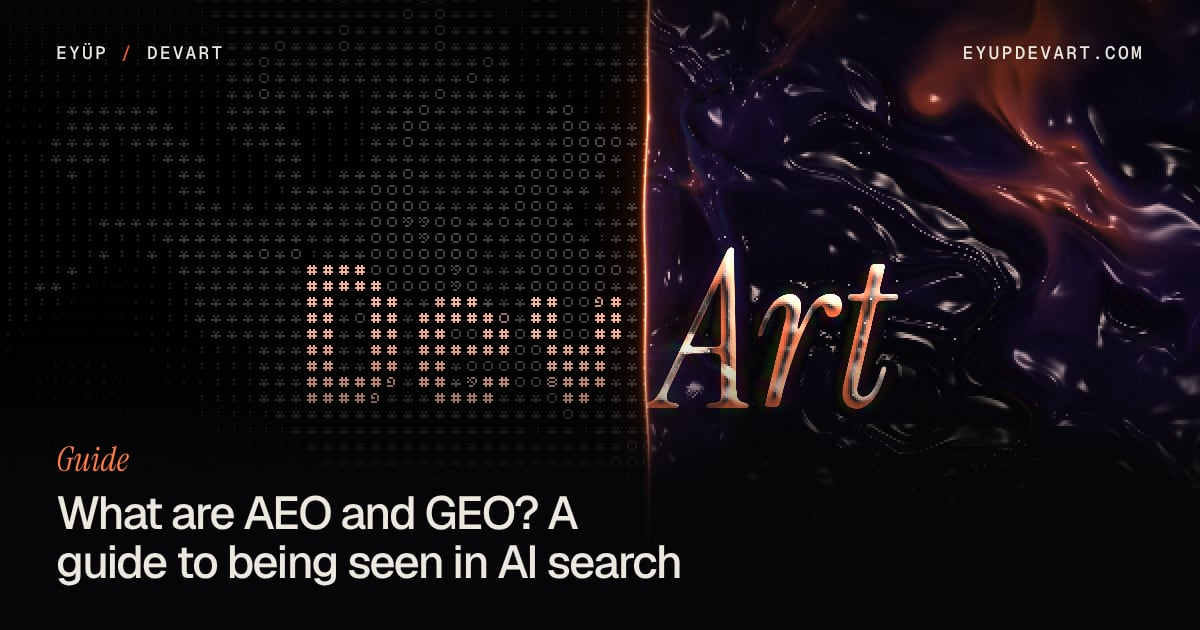
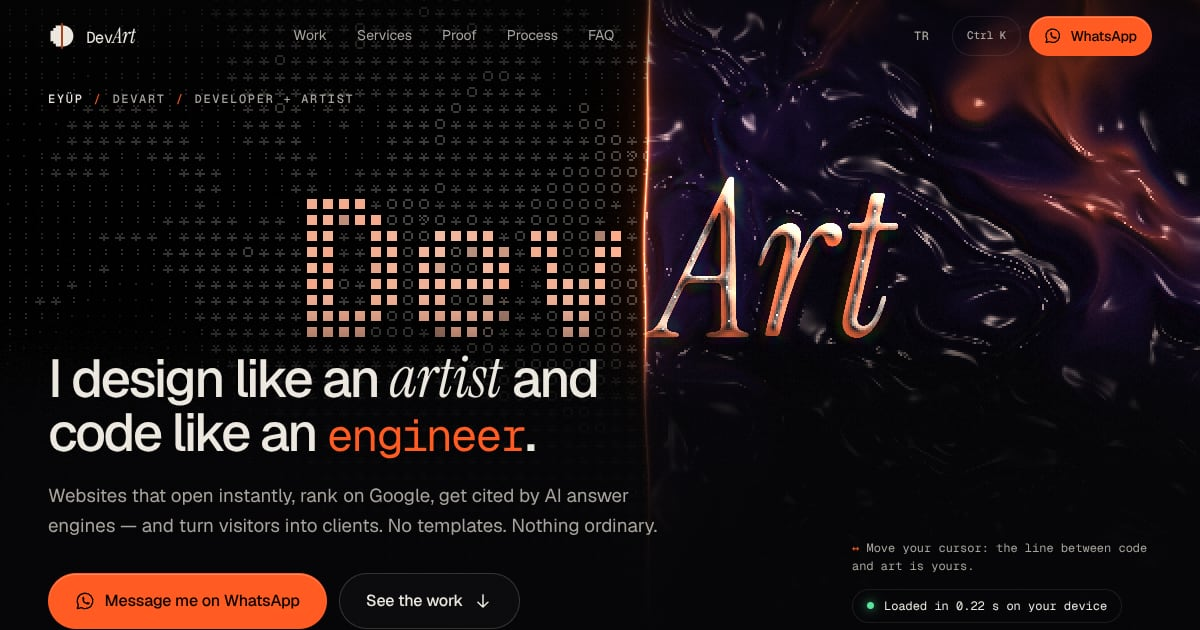
Seam: LED-block letters on the code side; refresh social cards
Cells inside the "Dev" letterforms now render as solid 5x5 blocks instead of
'#' glyphs, so the word reads as a crisp LED matrix even at phone sizes
where only ~9 cells span a letter. Thinner mask dilation keeps the shapes
faithful. Reduced-motion redraws are coalesced to one per frame. OG cards
re-rendered from the updated hero.

Claude-Session: https://claude.ai/code/session_01QQQySKRqq9o5pyzFvKpeWa

diff --git a/src/js/seam.js b/src/js/seam.js
@@ -130,6 +130,7 @@ void main() {
   if (lvl > 0.6) ch = 15252014;
   if (lvl > 0.7) ch = 13199452;
   if (lvl > 0.8) ch = 11512810;
+  if (letter > 0.5) ch = 33554431; // solid LED block: letters stay legible at any cell count
   vec2 lp = mod(fc / (uCell * 0.5), 2.0) - 1.0;
   float gch = glyph(ch, lp);
   vec3 devc = mix(BONE * (0.07 + 0.3 * g), mix(EMBER, BONE, 0.35 + 0.4 * g), letter) * gch;
@@ -286,7 +287,7 @@ export function start(canvas) {
       // Mono layer, dilated so every ASCII cell that touches a stroke lights up.
       ctx.font = monoFont;
       ctx.fillStyle = ctx.strokeStyle = '#f00';
-      ctx.lineWidth = monoPx * 0.05;
+      ctx.lineWidth = monoPx * 0.03;
       ctx.lineJoin = 'round';
       for (const [w, x] of [['Dev', monoDevX], ['Art', serifArtX]]) {
         ctx.fillText(w, x, monoBase);
